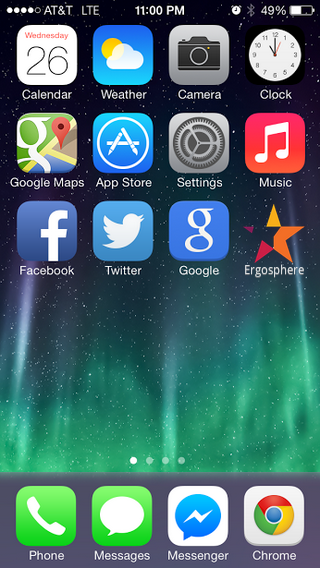
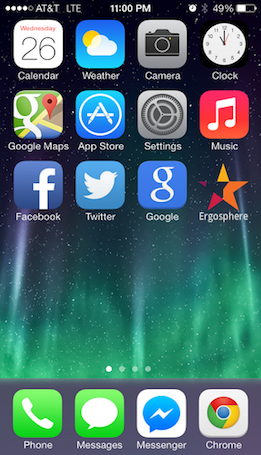
homescreen image changed/added to facetoaster

diff --git a/facetoaster/index.html b/facetoaster/index.html
@@ -3,7 +3,7 @@
 <html lang="en">
 <head>
     <meta charset="utf-8" />
-    <title>Hotdrop - Facetoaster</title>
+    <title>Facetoaster - Ergosphere</title>
 
     <link rel="icon" type="image/png" href="favicon.png" />
     
@@ -22,7 +22,6 @@
     <div class="frame">
         <div class="description">
             <h1>ERGOSPHERE</h1>
-            <h2>Main Screen</h2>
             <p class="description-text">Easter Egg.</p>
         </div>
     </div>
@@ -37,7 +36,7 @@
         </div>
 
         <div class="step slide" data-y="-1500" description="In this second iteration, We wanted to make it clear to users what the different elements were and how they aligned in hierarchy. Posts are now distinguished through white boxes, while generally cleaning up the UI through a geometric dimensional schema. Also features newly collapsible post area.">
-            <img src="public/img/screen2.png">
+            <img src="public/img/screen1.png">
         </div>
 
         <div class="step slide" data-y="-1500" description="We tried an experimental approach to the primary content area. Instead of a linear, vertical feed, cards would allow users to swipe through different hotdrops horizontally. This gives more attention to the individual posts, highlighting pictures and comments directly in the feed.">
